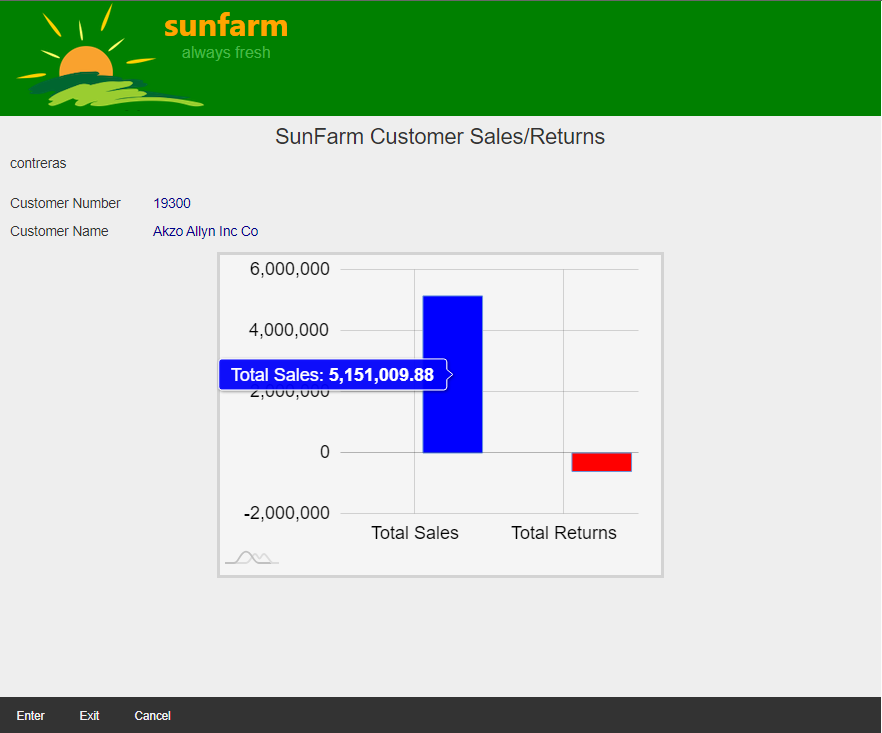
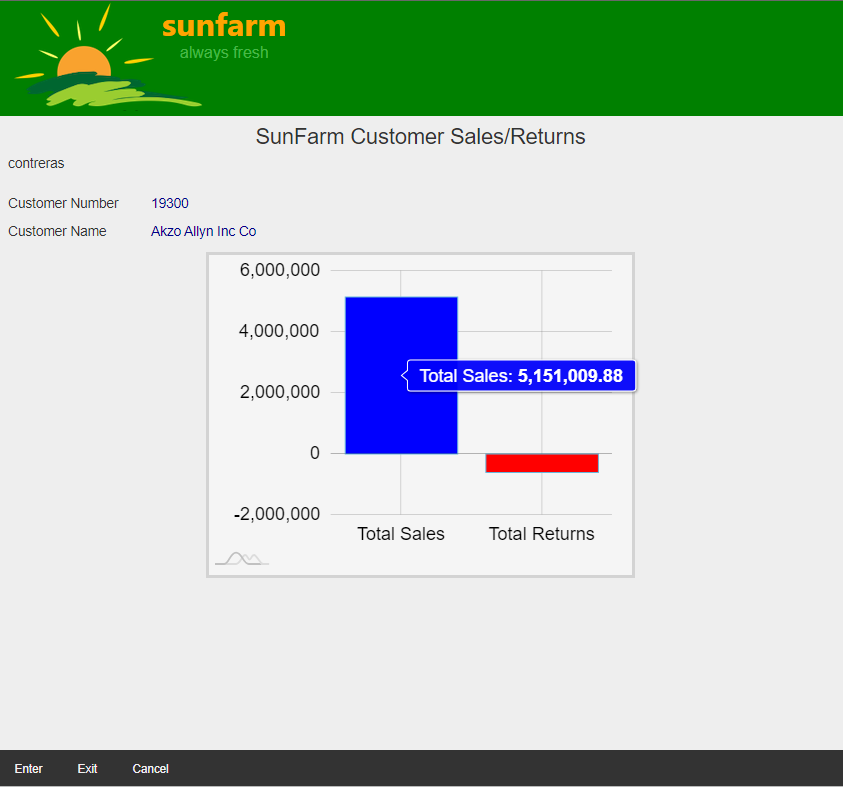
Chart topic complete.

diff --git a/examples/sunfarm/enhance-replace-data-with-chart.md b/examples/sunfarm/enhance-replace-data-with-chart.md
@@ -7,7 +7,134 @@ You can get the [GitHub Encore Source Files](https://github.com/asnaqsys-example
 
 ## Overview
 
+The User Interface of Migrated Legacy Applications runs on Web Browser technology. The language description is [HTML](https://developer.mozilla.org/en-US/docs/Learn/HTML/Introduction_to_HTML/Getting_started), an open standard. There are thousands of third party libraries designed to run on HTML. Business Applications can benefit from one specific kind of library, one that takes a series of data points to produce Charts.
+
+One page in `SunFarm` Application that could benefit of a Chart to display its data, is the `Customer Sales/Returns` Page.
+
 ## Replacing numeric Data points with a Chart
+
+To replace the two monetary values displaying the `Total Sales` and `Total Returns` we will use a simple Bar Chart.
+
+The library that will render the Chart is [amcharts](https://www.amcharts.com/docs/v4/getting-started/basics/).
+
+This library was selected for this example because:
+1. It offers a very simple [API](https://en.wikipedia.org/wiki/API).
+2. It grants a [free license](https://www.amcharts.com/licenses/javascript-charts-free-license/), by imbedding a link to their website, prohibiting removing or covering such link. This is very suitable for an Example.
+3. Produces high-quality [SVG](https://developer.mozilla.org/en-US/docs/Web/SVG) graphics.
+
+The basic steps to add a `amchart` are:
+
+  a) Add a named [\<div\>](https://developer.mozilla.org/en-US/docs/Web/HTML/Element/div) with a style that includes `width` and `height` attributes.
+
+  b) Using JavaScript, instantiate the chart given the [id](https://developer.mozilla.org/en-US/docs/Web/API/Element/id) property and the type of chart to be created.
+
+  c) Using the new chart object, push axis, data series and any other chart objects describing the chart and/or the data in the series.
+
+The `~\SunFarmSite\Areas\SunFarmViews\Pages\CUSTDSPF.cshtml` Razor Page, defines several Displayfile records, among them, one for `SALESREC` Model record. The migration was using the following fields defined in that record, namely: `SALESREC.SCPGM`, `SALESREC.SFCUSTNO`, `SALESREC.SFNAME`, `SALESREC.SFSALES` and `SALESREC.SFRETURNS`.
+
+The fields that have the Total Sales and Total Returns values are `SALESREC.SFSALES` and `SALESREC.SFRETURNS`. These will be used to Chart instead of just displaying its values (as the Legacy Application did).
+
+The following is the modified `DdsRecord`. Rows `1` to `5` show standard output (very similar to the migration). At the bottom of the Display Record, we have added two [\<div\>](https://developer.mozilla.org/en-US/docs/Web/HTML/Element/div) s : a container and the chart itself.
+
+Note how the [\<div\>](https://developer.mozilla.org/en-US/docs/Web/HTML/Element/div) for the chart has the [id](https://developer.mozilla.org/en-US/docs/Web/API/Element/id) set to `sales-chart`. That name will be passed as a parameter for the instantiation of the Chart object (see scripting below)
+
+```html
+<DdsRecord For="SALESREC" StretchConstantText=false KeyNames="F12 'Cancel';">
+    <span class="page-title">SunFarm Customer Sales/Returns</span>
+
+    <div Row="1">
+        <DdsConstant Col="2" Text=@System.Environment.UserName />
+    </div>
+    <div Row="2">
+        <DdsCharField Col="2" For="SALESREC.SCPGM" />
+    </div>
+    <div Row="3">
+        <DdsConstant Col="2" Text="Customer Number" />
+        <DdsDecField Col="15" For="SALESREC.SFCUSTNO" Color="DarkBlue" EditCode="Z" Comment="CUSTOMER NUMBER" />
+    </div>
+    <div Row="4">
+        <DdsConstant Col="2" Text="Customer Name" />
+        <DdsCharField Col="15" For="SALESREC.SFNAME" Color="DarkBlue" />
+    </div>
+    <div Row="5"> </div>
+
+    <div id="sales-chart-container">
+        <div id="sales-chart">Sales Chart</div>
+    </div>
+```
+
+To center the chart container and give the chart dimensions, we rely on the following CSS styles:
+
+```css
+#sales-chart-container div {
+    margin: 0 auto;
+    width: 50%;
+    height: 20rem;
+}
+
+#sales-chart {
+    background-color: whitesmoke;
+    border-style: solid;
+    border-color: lightgrey;
+    border-width: medium;
+}
+```
+
+## Scripting to use third-party Charting Library
+
+At the bottom of the The `~\SunFarmSite\Areas\SunFarmViews\Pages\CUSTDSPF.cshtml` Razor Page, we write three small script blocks:
+
+1. A reference to the third-party `core.js` library file given its source URL.
+2. A reference to third-party `charts.js` library file given its source URL.
+3. Our explicit use of the library:
+
+   a) We only instantiate the chart object if the `div` with the `id='sales-chart'` exists as a rendered object (otherwise the `SALESREC` is not *active*).
+
+
+   b) We instance the chart (naming the `id` where the graph should be drawn), and create a data-series with two values we want plotted `@Model.SALESREC.SFSALES` and `@Model.SALESREC.SFRETURNS`.
+
+
+>Note: The details of how the JavaScript code works is outside the scope of this example. If you want to use this particular charting library, please [read Here](https://www.amcharts.com/docs/v4/getting-started/basics/).
+
+
+```html
+<script src="https://cdn.amcharts.com/lib/4/core.js"></script>
+<script src="https://cdn.amcharts.com/lib/4/charts.js"></script>
+<script>
+    const CHART_ID = 'sales-chart';
+    const chartEl = document.getElementById('sales-chart');
+    if (chartEl) {
+        const chart = am4core.create(CHART_ID, am4charts.XYChart);
+        const xAxis = chart.xAxes.push(new am4charts.CategoryAxis());
+        const yAxis = chart.yAxes.push(new am4charts.ValueAxis());
+
+        xAxis.dataFields.category = 'category';
+
+        const series = chart.series.push(new am4charts.ColumnSeries())
+        series.dataFields.valueY = 'amount';
+        series.dataFields.categoryX = 'category';
+        series.columns.template.tooltipText = "{categoryX}: [bold]{valueY}[/]";
+
+        series.columns.template.adapter.add("fill", (fill, target) => {
+            if (target.dataItem.index == 0) {
+                return 'blue';
+            }
+            return 'red';
+        });
+
+        chart.data = [
+            {
+                category: 'Total Sales',
+                amount: @Model.SALESREC.SFSALES
+            },
+            {
+                category: 'Total Returns',
+                amount: @Model.SALESREC.SFRETURNS
+            }
+        ];
+   }
+</script>
+```
 
 ## Results
 
